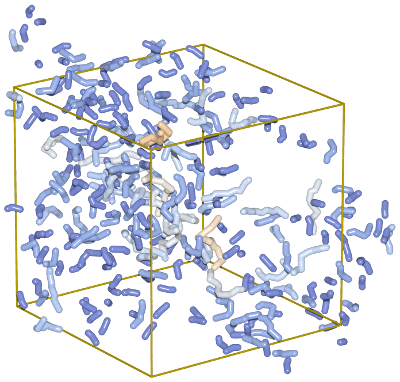
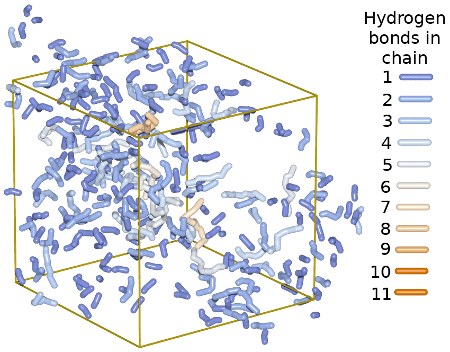
Added legend to sample image
Included a legend in the sample image. A note was added to README.md
mentioning that GIMP was used to include text in the legend.

diff --git a/README.md b/README.md
@@ -4,6 +4,8 @@ TraceHBonds
 A program for finding strings of hydrogen bonded atoms in a trajectory file
 generated from the _Discover_ molecular dynamics program.
 
+![Hydrogen bond strings, colored by chain length](/images/HydrogenBondStrings.png?raw=true "Hydrogen Bond strings")
+
 # Contents
 
   * [Installation](#installation)
@@ -235,9 +237,11 @@ The program [POV-Ray](http://www.povray.org) can be used to convert the
 output of [--sizehist](#sizehist-t) [--povray](#povray-t) to an image or
 even a movie of the image rotating. Here is an example image using the
 [prettybox.pov](povray/prettybox.pov) script in the [povray](povray/)
-directory for colorings and shapes:
+directory:
 
 ![Hydrogen bond strings, colored by chain length](/images/HydrogenBondStrings.png?raw=true "Hydrogen Bond strings")
+
+The legend text was added with [GIMP](http://www.gimp.org).
 
 #### Chain Histograms
 
